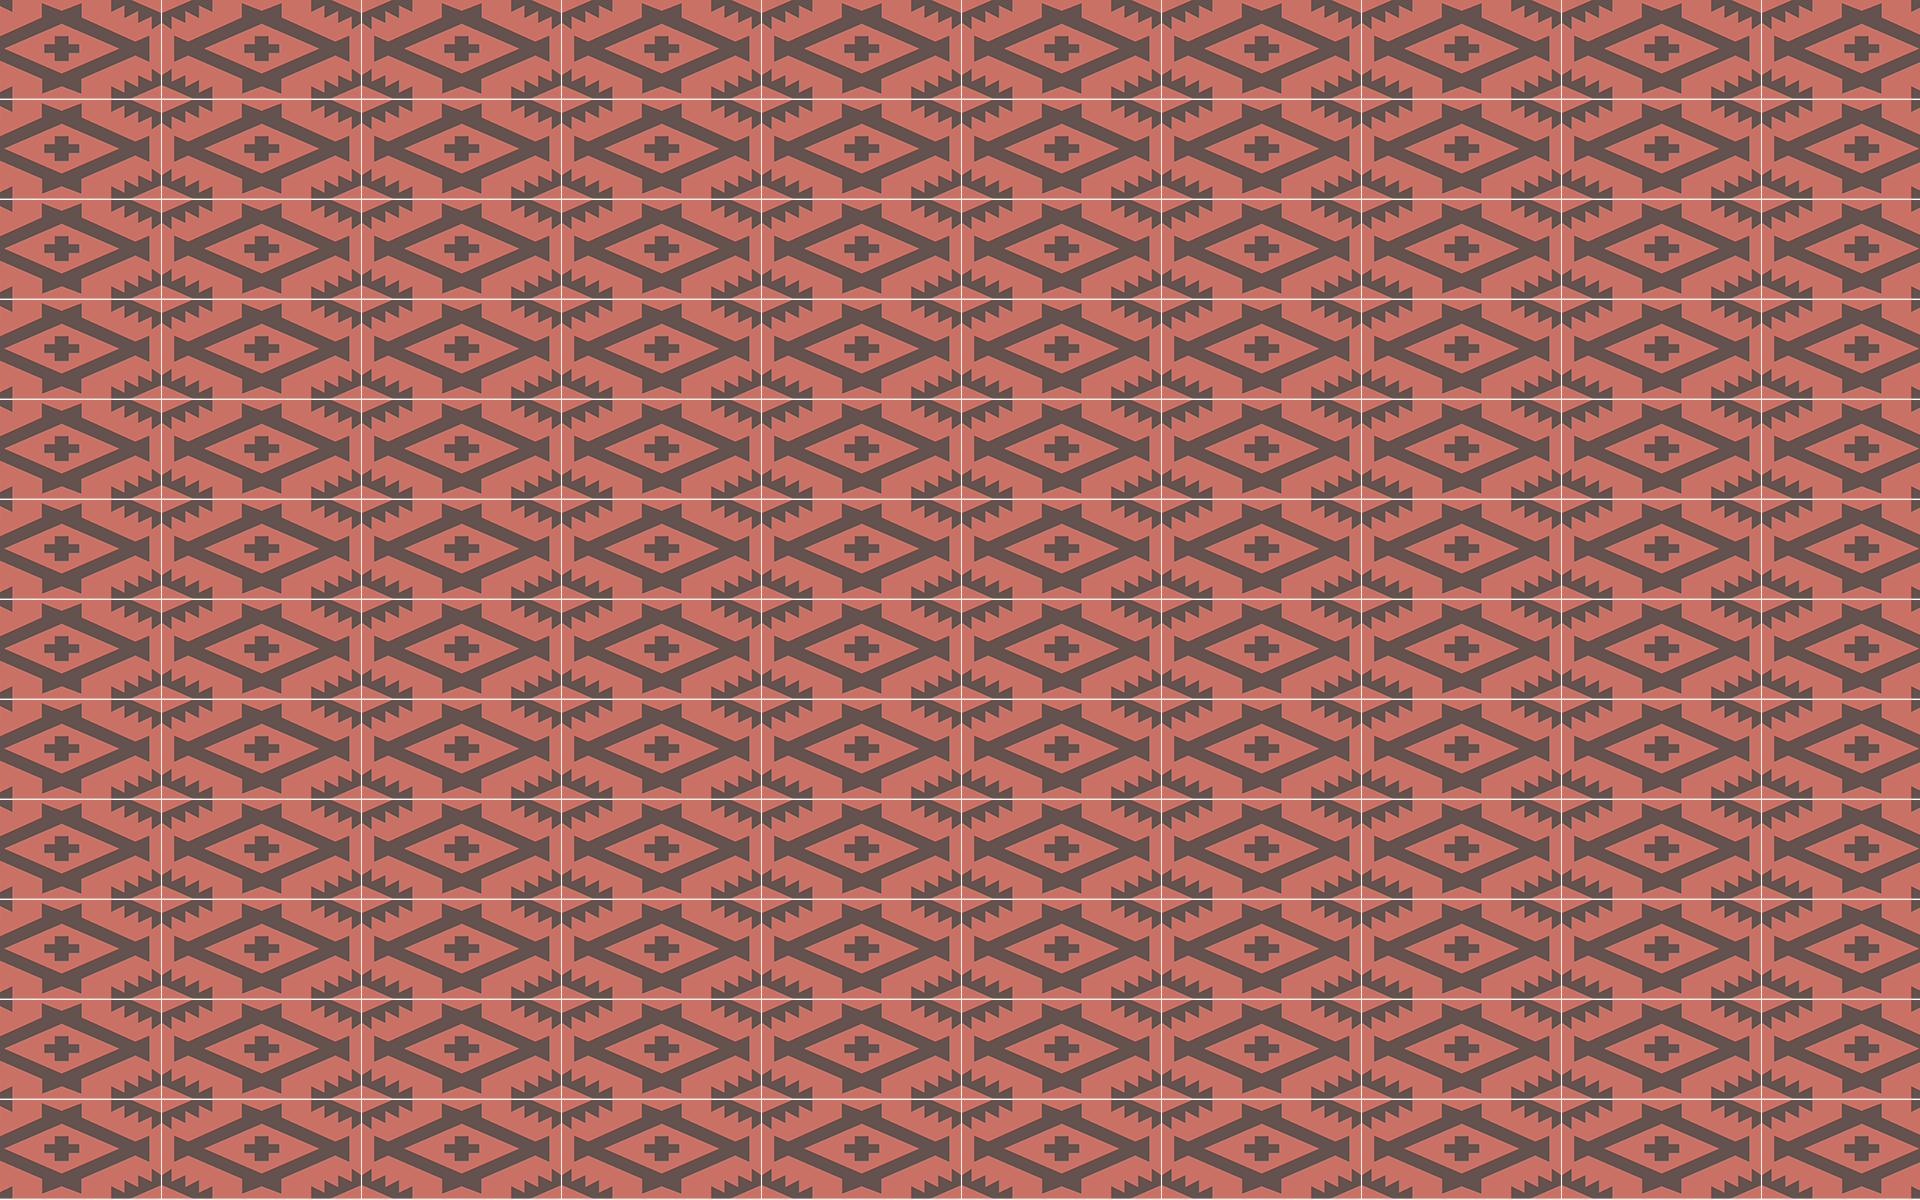
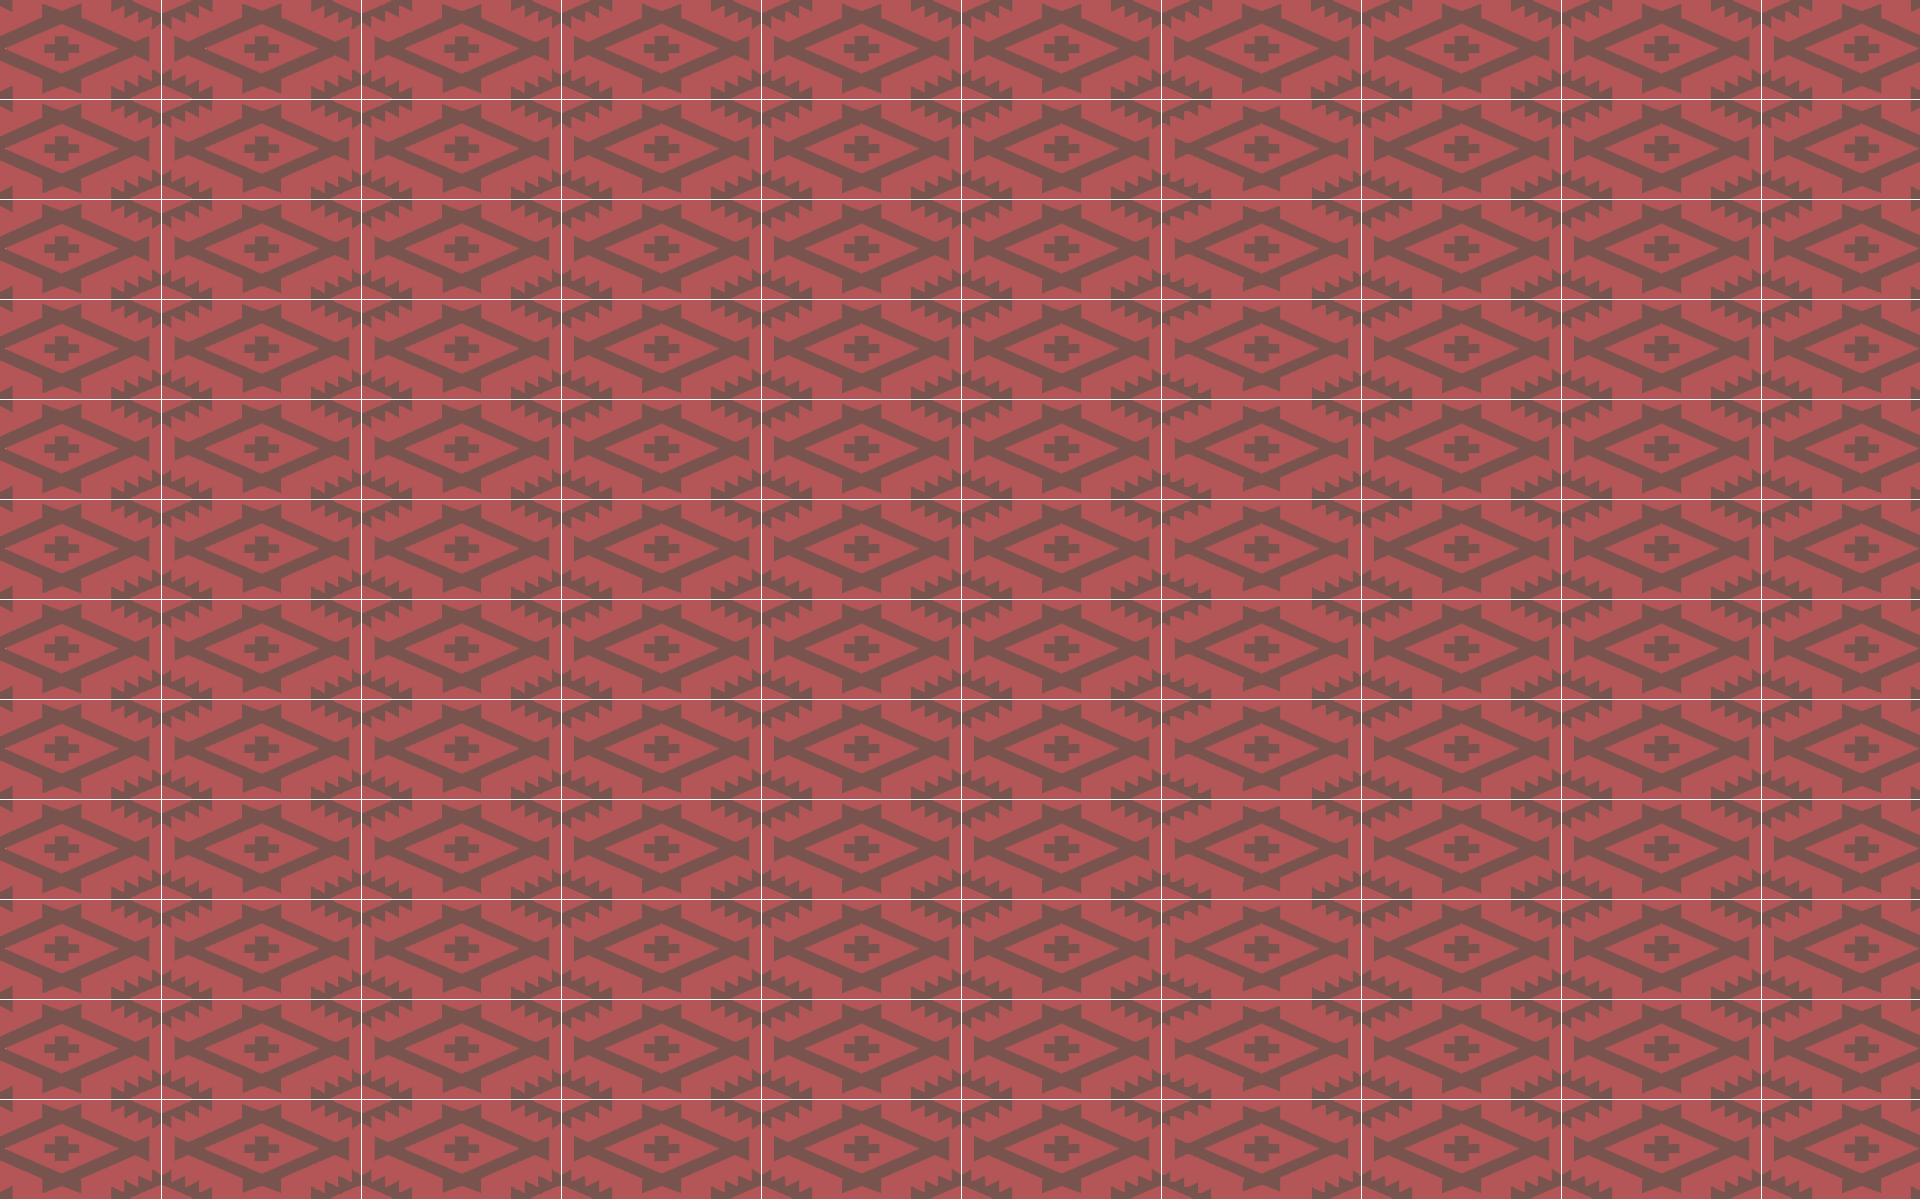
added ufo to contact screen, added img to work card

diff --git a/client/src/components/ContactCard/ContactCard.jsx b/client/src/components/ContactCard/ContactCard.jsx
@@ -3,31 +3,32 @@ import "../ContactCard/ContactCard.css";
 function ContactCard(props) {
   return (
     <div className="contact-card-container">
-      <h1>Contact</h1>
-      <div className="contact-card-icons">
-        <a
-          href="https://github.com/KAthousand"
-          target="_blank"
-          className="contact-icon fa fa-github"
-          rel="noreferrer"
-          alt="link-to-github"
-        >
-          {" "}
-        </a>
-        <a
-          href="https://www.linkedin.com/in/kathousand/"
-          target="_blank"
-          className="contact-icon fa fa-linkedin"
-          rel="noreferrer"
-          alt="link-to-linkedin"
-        >
-          {" "}
-        </a>
-      </div>
-      <div className="back-to-top">
-        <a href="title">
-          <h3>Back to Top</h3>
-        </a>
+      <div className="ufo">
+        <div className="contact-card-icons">
+          <a
+            href="https://github.com/KAthousand"
+            target="_blank"
+            className="contact-icon fa fa-github"
+            rel="noreferrer"
+            alt="link-to-github"
+          >
+            {" "}
+          </a>
+          <a
+            href="https://www.linkedin.com/in/kathousand/"
+            target="_blank"
+            className="contact-icon fa fa-linkedin"
+            rel="noreferrer"
+            alt="link-to-linkedin"
+          >
+            {" "}
+          </a>
+        </div>
+        <div className="back-to-top">
+          <a href="title">
+            <h3>Back to Top</h3>
+          </a>
+        </div>
       </div>
     </div>
   );

diff --git a/client/src/components/Resume/Resume.css b/client/src/components/Resume/Resume.css
@@ -1,6 +1,6 @@
 .resume-container {
   /* border: 2px solid blue; */
-  background-color: var(--color-light-orange);
+  background-color: var(--color-orange);
   height: 100%;
   width: 60%;
   display: flex;
@@ -23,7 +23,7 @@
 
 .resume-content {
   /* color: var(--color-dark); */
-  color: rgb(42, 42, 42);
+  color: var(--color-black);
   /* border: 2px solid green; */
   height: 80%;
   /* width: 100%; */
@@ -45,13 +45,14 @@
 }
 
 .resume-content h1 {
-  /* text-align: center; */
+  color: var(--color-light-orange);
+  text-align: center;
   font-size: 3em;
   margin: 10px 0 -20px 0;
 }
 
 .resume-content h2 {
-  /* color: var(--color-dark); */
+  /* color: var(--color-light-orange); */
   font-size: 2em;
   margin: 20px 0 15px 0;
 }
@@ -64,7 +65,7 @@
 }
 
 .resume-content h4 {
-  color: var(--color-dark);
+  /* color: var(--color-light-orange); */
   margin: 10px 0 5px 0;
 }
 

diff --git a/client/src/components/ContactForm/ContactForm.css b/client/src/components/ContactForm/ContactForm.css
@@ -29,8 +29,9 @@
 }
 
 .contact-form-content h1 {
-  color: white;
+  color: var(--color-black);
   font-size: 5em;
+  margin-bottom: -10px;
 }
 
 .contact-form-content input,
@@ -51,13 +52,18 @@
   font-family: var(--font-header);
   font-size: 2em;
   letter-spacing: 1px;
-  margin-top: 10px;
+  margin-top: 40px;
   border: none;
   /* border: 10px solid var(--color-dark-orange); */
   border-radius: 5px;
-  color: var(--color-light-orange);
+  color: var(--color-dark);
   /* color: white; */
+  background-color: var(--color-light-orange);
+}
+
+.contact-form-content button:hover {
   background-color: var(--color-dark);
+  color: var(--color-light-orange);
 }
 
 @media only screen and (max-width: 1000px) {

diff --git a/client/src/components/PhotoCard/PhotoCard.css b/client/src/components/PhotoCard/PhotoCard.css
@@ -62,7 +62,7 @@
 }
 
 .hand-transition {
-  border: 2px solid red;
+  /* border: 2px solid red; */
   opacity: 90%;
   top: -140px;
   left: 100px;
@@ -102,7 +102,7 @@
 .box-three {
   height: 65%;
   width: 70%;
-  background-color: var(--color-light-orange);
+  background-color: var(--color-orange);
   border-radius: 5px;
   position: absolute;
   left: -300%;
@@ -118,7 +118,7 @@
 }
 
 .photo-card-text {
-  color: white;
+  color: var(--color-light-orange);
   font-size: 2em;
   opacity: 0%;
   position: absolute;
@@ -144,7 +144,7 @@
   }
   .hand-illustration {
     height: 100%;
-    width: 75vw;
+    width: 72vw;
     /* transform: scale(1.75); */
   }
   .hand-transition {

diff --git a/client/src/components/WorkCard/WorkCard.css b/client/src/components/WorkCard/WorkCard.css
@@ -1,14 +1,19 @@
 .work-card-container {
-  background-color: var(--color-dark-orange);
+  background-color: var(--color-black);
+  border-right: 100px solid var(--color-dark);
   height: 100%;
   width: 50%;
 }
 
 .work-card-content {
+  background: url("../../assets/worktitle.png") no-repeat center center;
+  background-size: contain;
   height: 100%;
   display: flex;
   justify-content: center;
   align-items: center;
+  position: relative;
+  top: 4%;
 }
 
 @media only screen and (max-width: 1000px) {

diff --git a/client/src/components/ContactCard/ContactCard.css b/client/src/components/ContactCard/ContactCard.css
@@ -9,11 +9,27 @@
   color: var(--color-dark);
 }
 
+.ufo {
+  background: url("../../assets/ufo.png") no-repeat center center;
+  background-size: contain;
+  height: 100%;
+  width: 100%;
+  display: flex;
+  flex-direction: column;
+  justify-content: flex-end;
+  align-items: center;
+}
+
 .contact-card-icons {
   display: flex;
+  margin-bottom: 5%;
+}
+.contact-card-icons a {
+  margin: 10px;
 }
 
 .back-to-top h3 {
+  margin-bottom: 20%;
   color: var(--color-dark-orange);
 }
 

diff --git a/client/src/components/shared/Nav/Nav.css b/client/src/components/shared/Nav/Nav.css
@@ -44,6 +44,11 @@
   visibility: hidden;
   transition: visibility 0.45s;
   transition-timing-function: cubic-bezier(0.82, 0.01, 0.77, 0.78);
+  font-size: 3em;
+}
+
+.nav-full-link a:hover {
+  color: var(--color-dark);
 }
 
 .open-link {
@@ -80,4 +85,10 @@
 
 .nav-icon-transition {
   transform: rotate(225deg);
+}
+
+@media only screen and (max-width: 1000px) {
+  .nav-icon-container {
+    display: none;
+  }
 }

diff --git a/client/src/App.css b/client/src/App.css
@@ -1,8 +1,9 @@
 :root {
-  --color-light-orange: #c97165;
-  --color-dark-orange: #64524e;
+  --color-light-orange: #df5757;
+  --color-orange: #b45657;
+  --color-dark-orange: #79544e;
   --color-dark: #40434b;
-  --color-black: #24262c;
+  --color-black: #322d2a;
   --font-header: "Bungee", cursive;
   --font-content: "Open Sans", sans-serif;
 }

diff --git a/client/src/components/WorkCard/WorkCard.jsx b/client/src/components/WorkCard/WorkCard.jsx
@@ -4,9 +4,7 @@ import "../WorkCard/WorkCard.css";
 function WorkCard(props) {
   return (
     <div className="work-card-container">
-      <div className="work-card-content">
-        <h1> Work</h1>
-      </div>
+      <div className="work-card-content"></div>
     </div>
   );
 }
